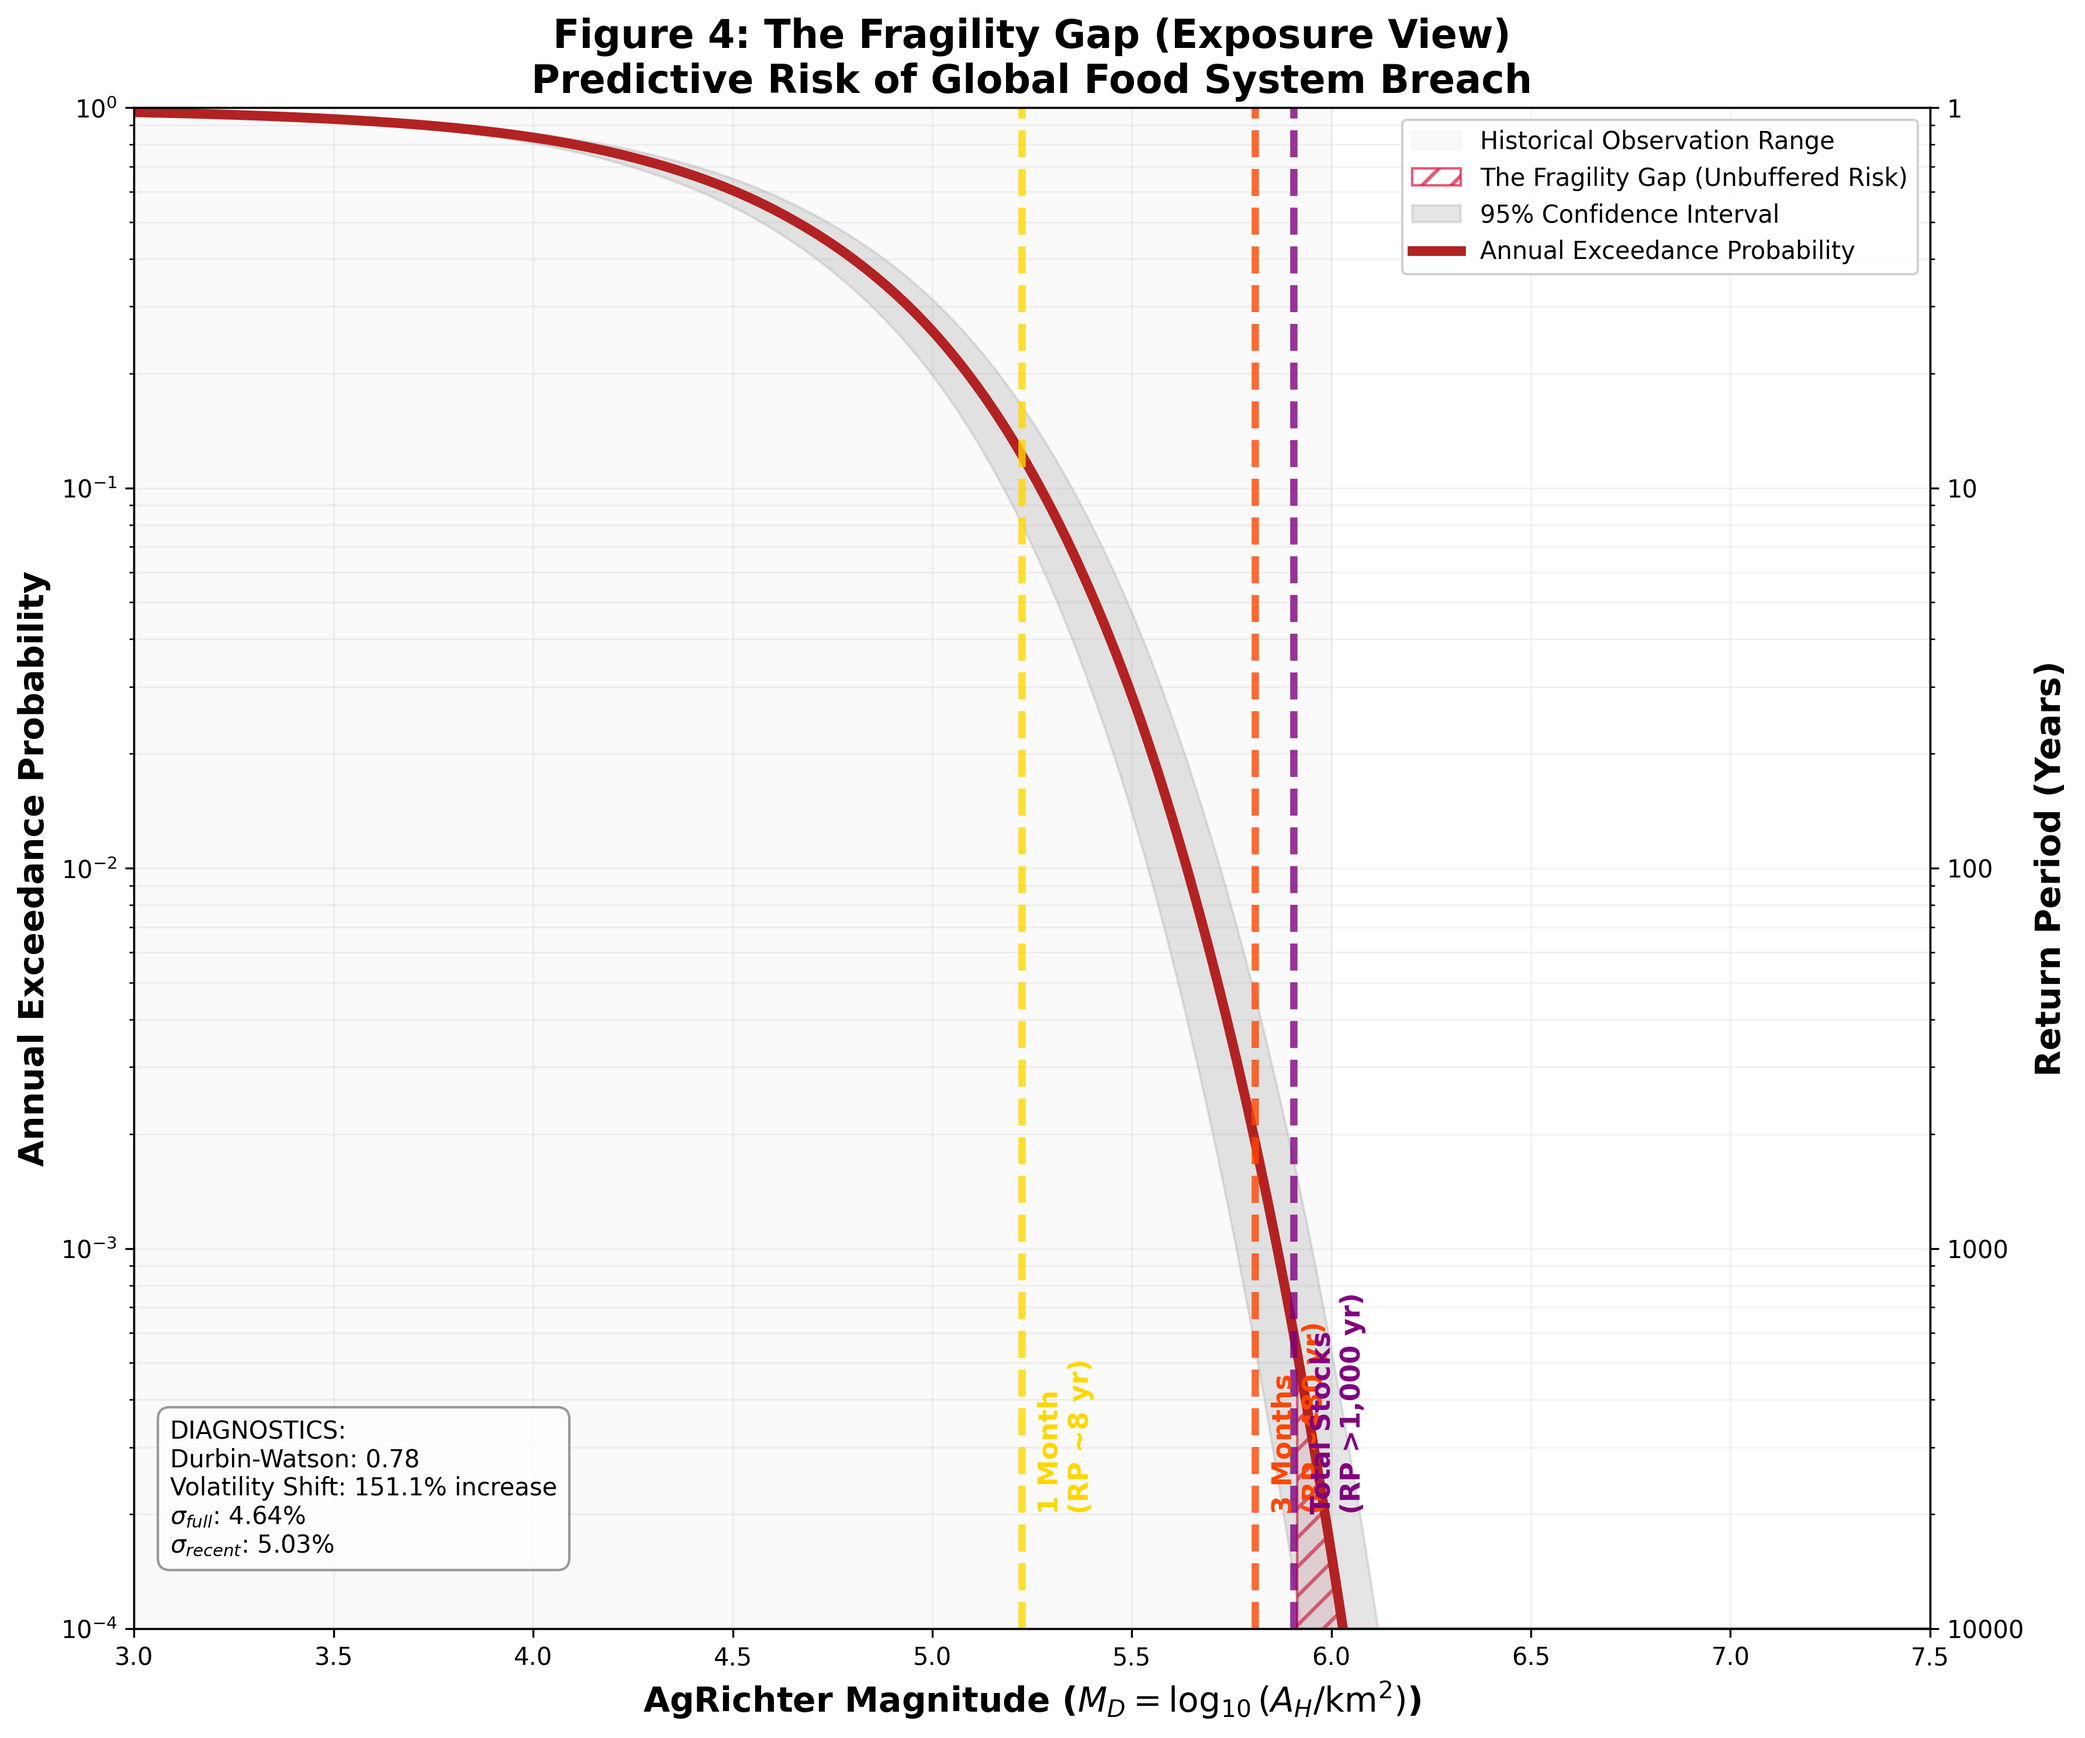
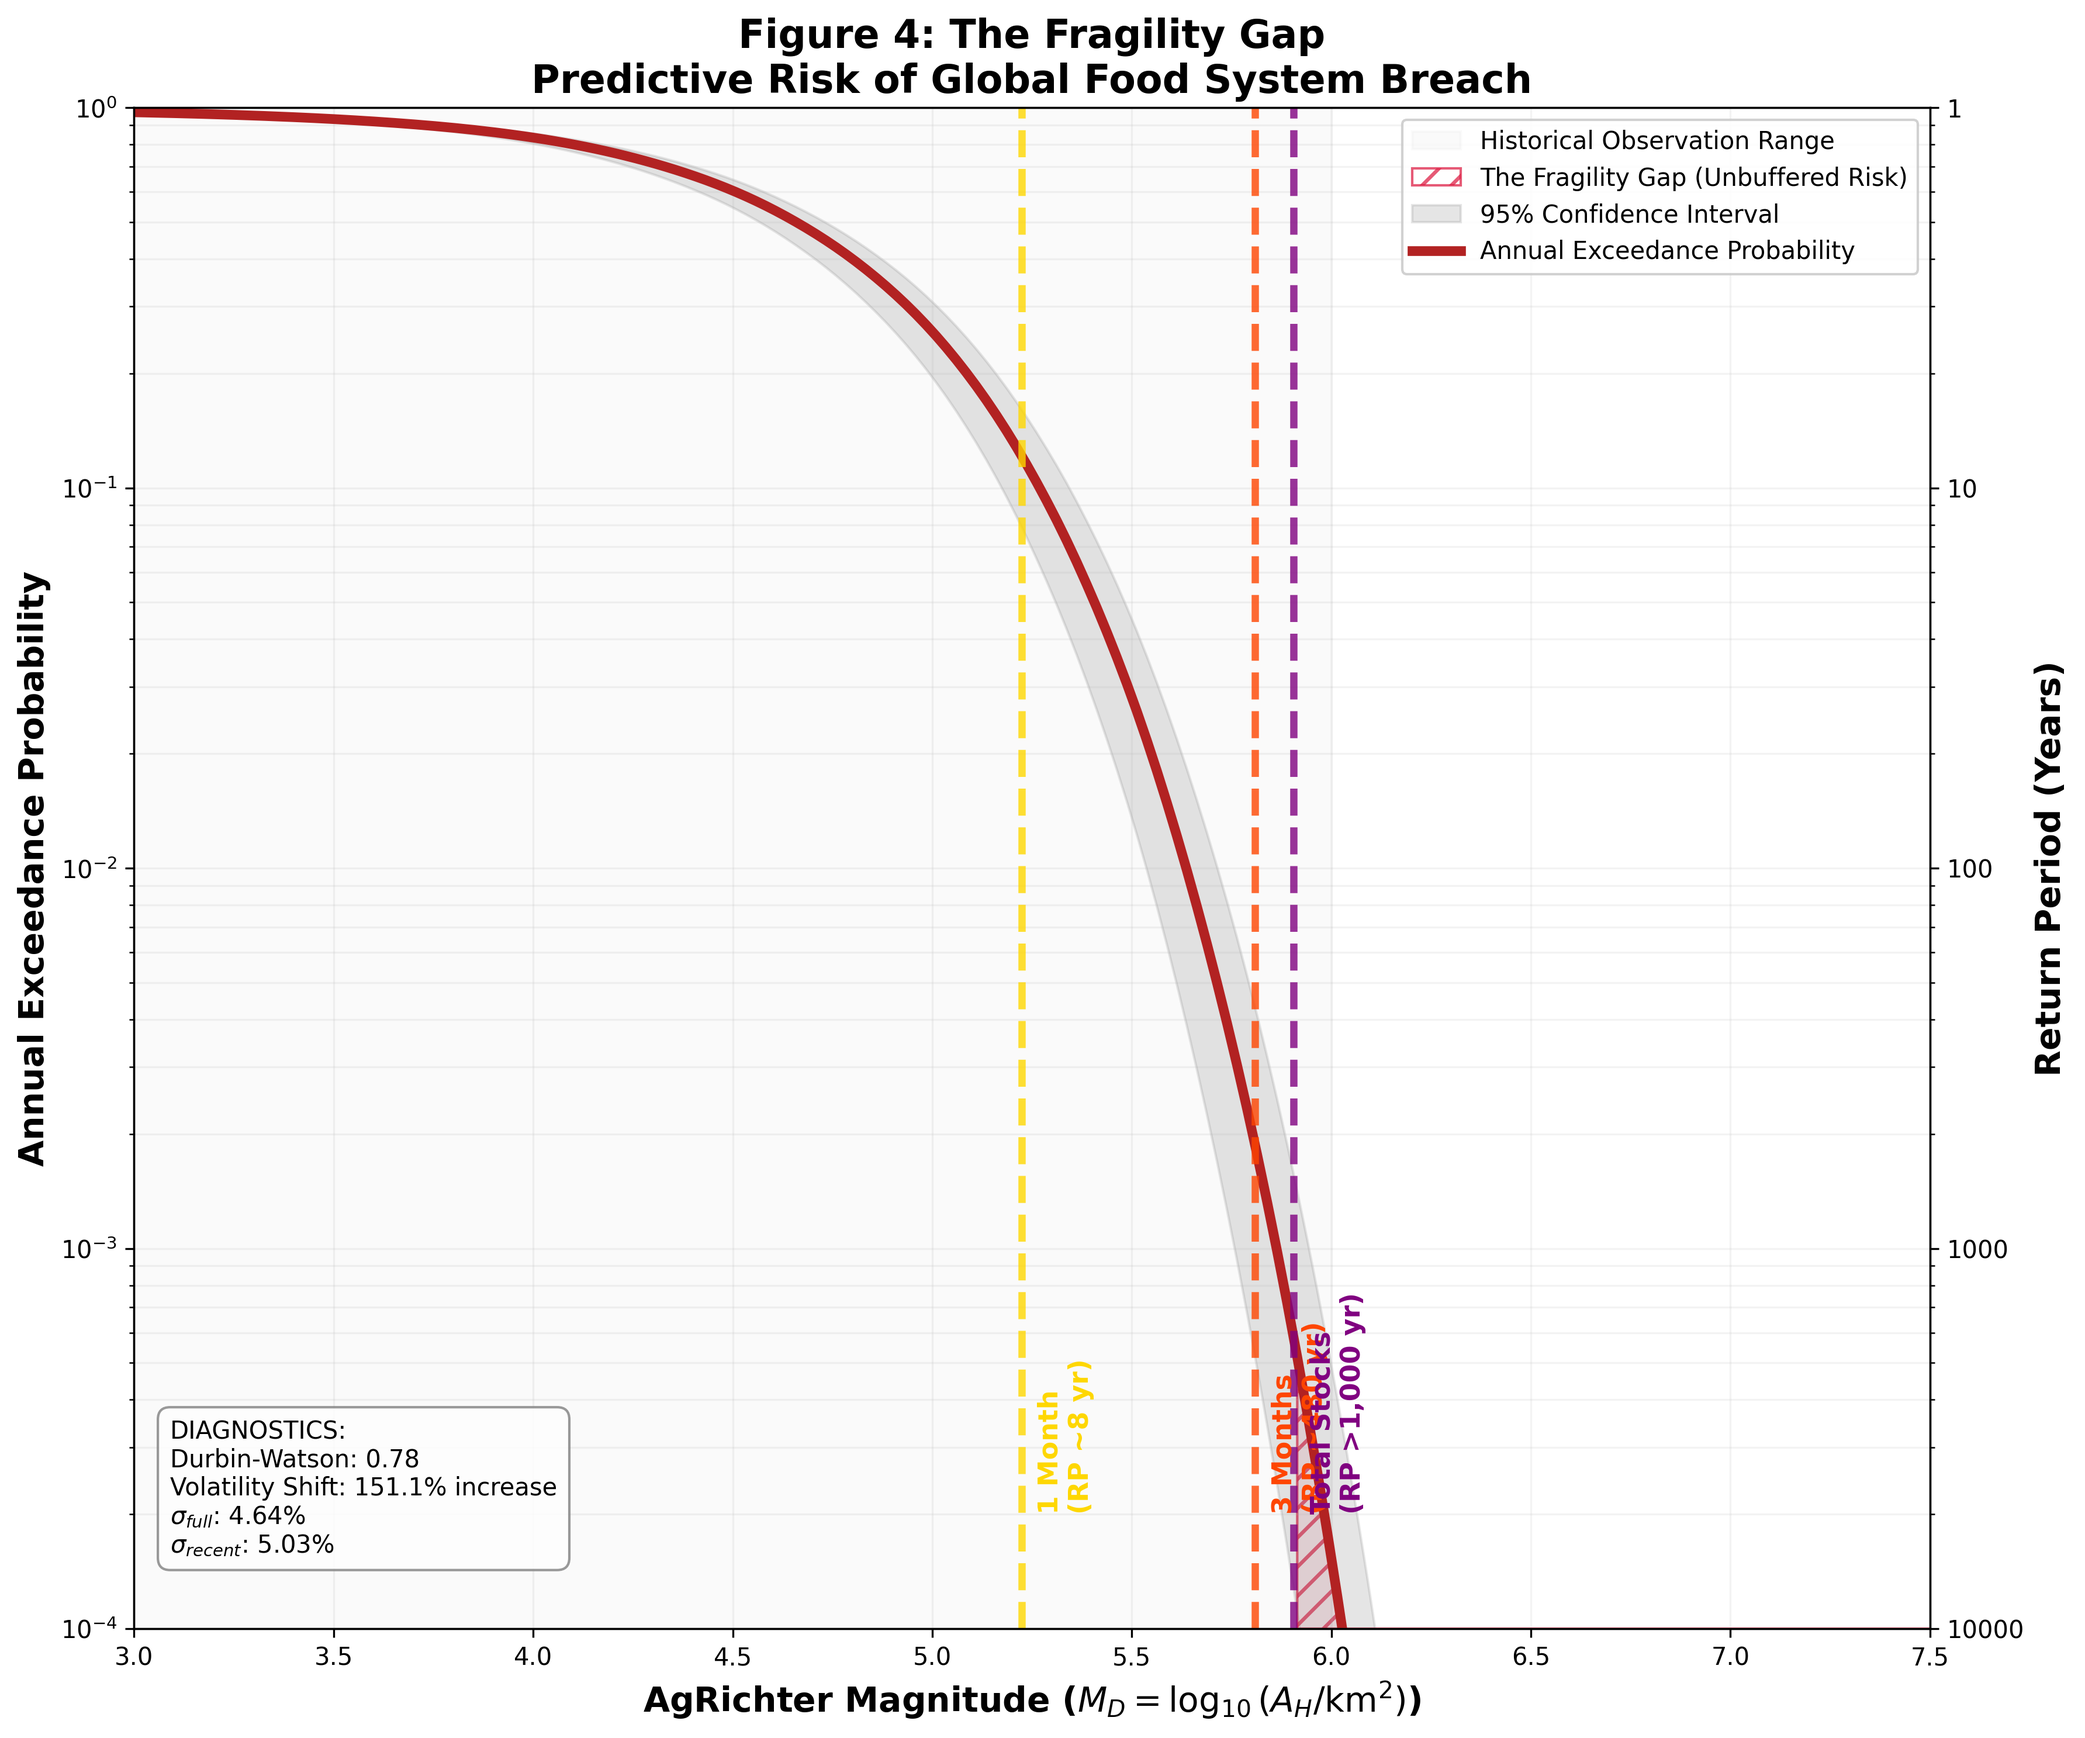
Clean up Figure 4 titles and prepare for data update.
- Removed 'Zonal/Exposure View' from plot titles.
- Unified processing flow for dual version generation.

Changed region(s): [[0.2489, 0.0, 0.7157, 0.0309]]

diff --git a/scripts/fig4_risk_probability.py b/scripts/fig4_risk_probability.py
@@ -284,7 +284,7 @@ def generate_all_figures():
         ax.set_ylim(1e-4, 1)
         ax.set_xlabel(r'AgRichter Magnitude ($M_D = \log_{10}(A_H / \mathrm{km}^2)$)', fontsize=14, fontweight='bold')
         ax.set_ylabel('Annual Exceedance Probability', fontsize=14, fontweight='bold')
-        ax.set_title(f'Figure 4: The Fragility Gap ({mode.capitalize()} View)\nPredictive Risk of Global Food System Breach', fontsize=16, fontweight='bold')
+        ax.set_title(f'Figure 4: The Fragility Gap\nPredictive Risk of Global Food System Breach', fontsize=16, fontweight='bold')
         ax.grid(True, which="both", ls="-", alpha=0.15)
         
         ax_rp = ax.twinx()
